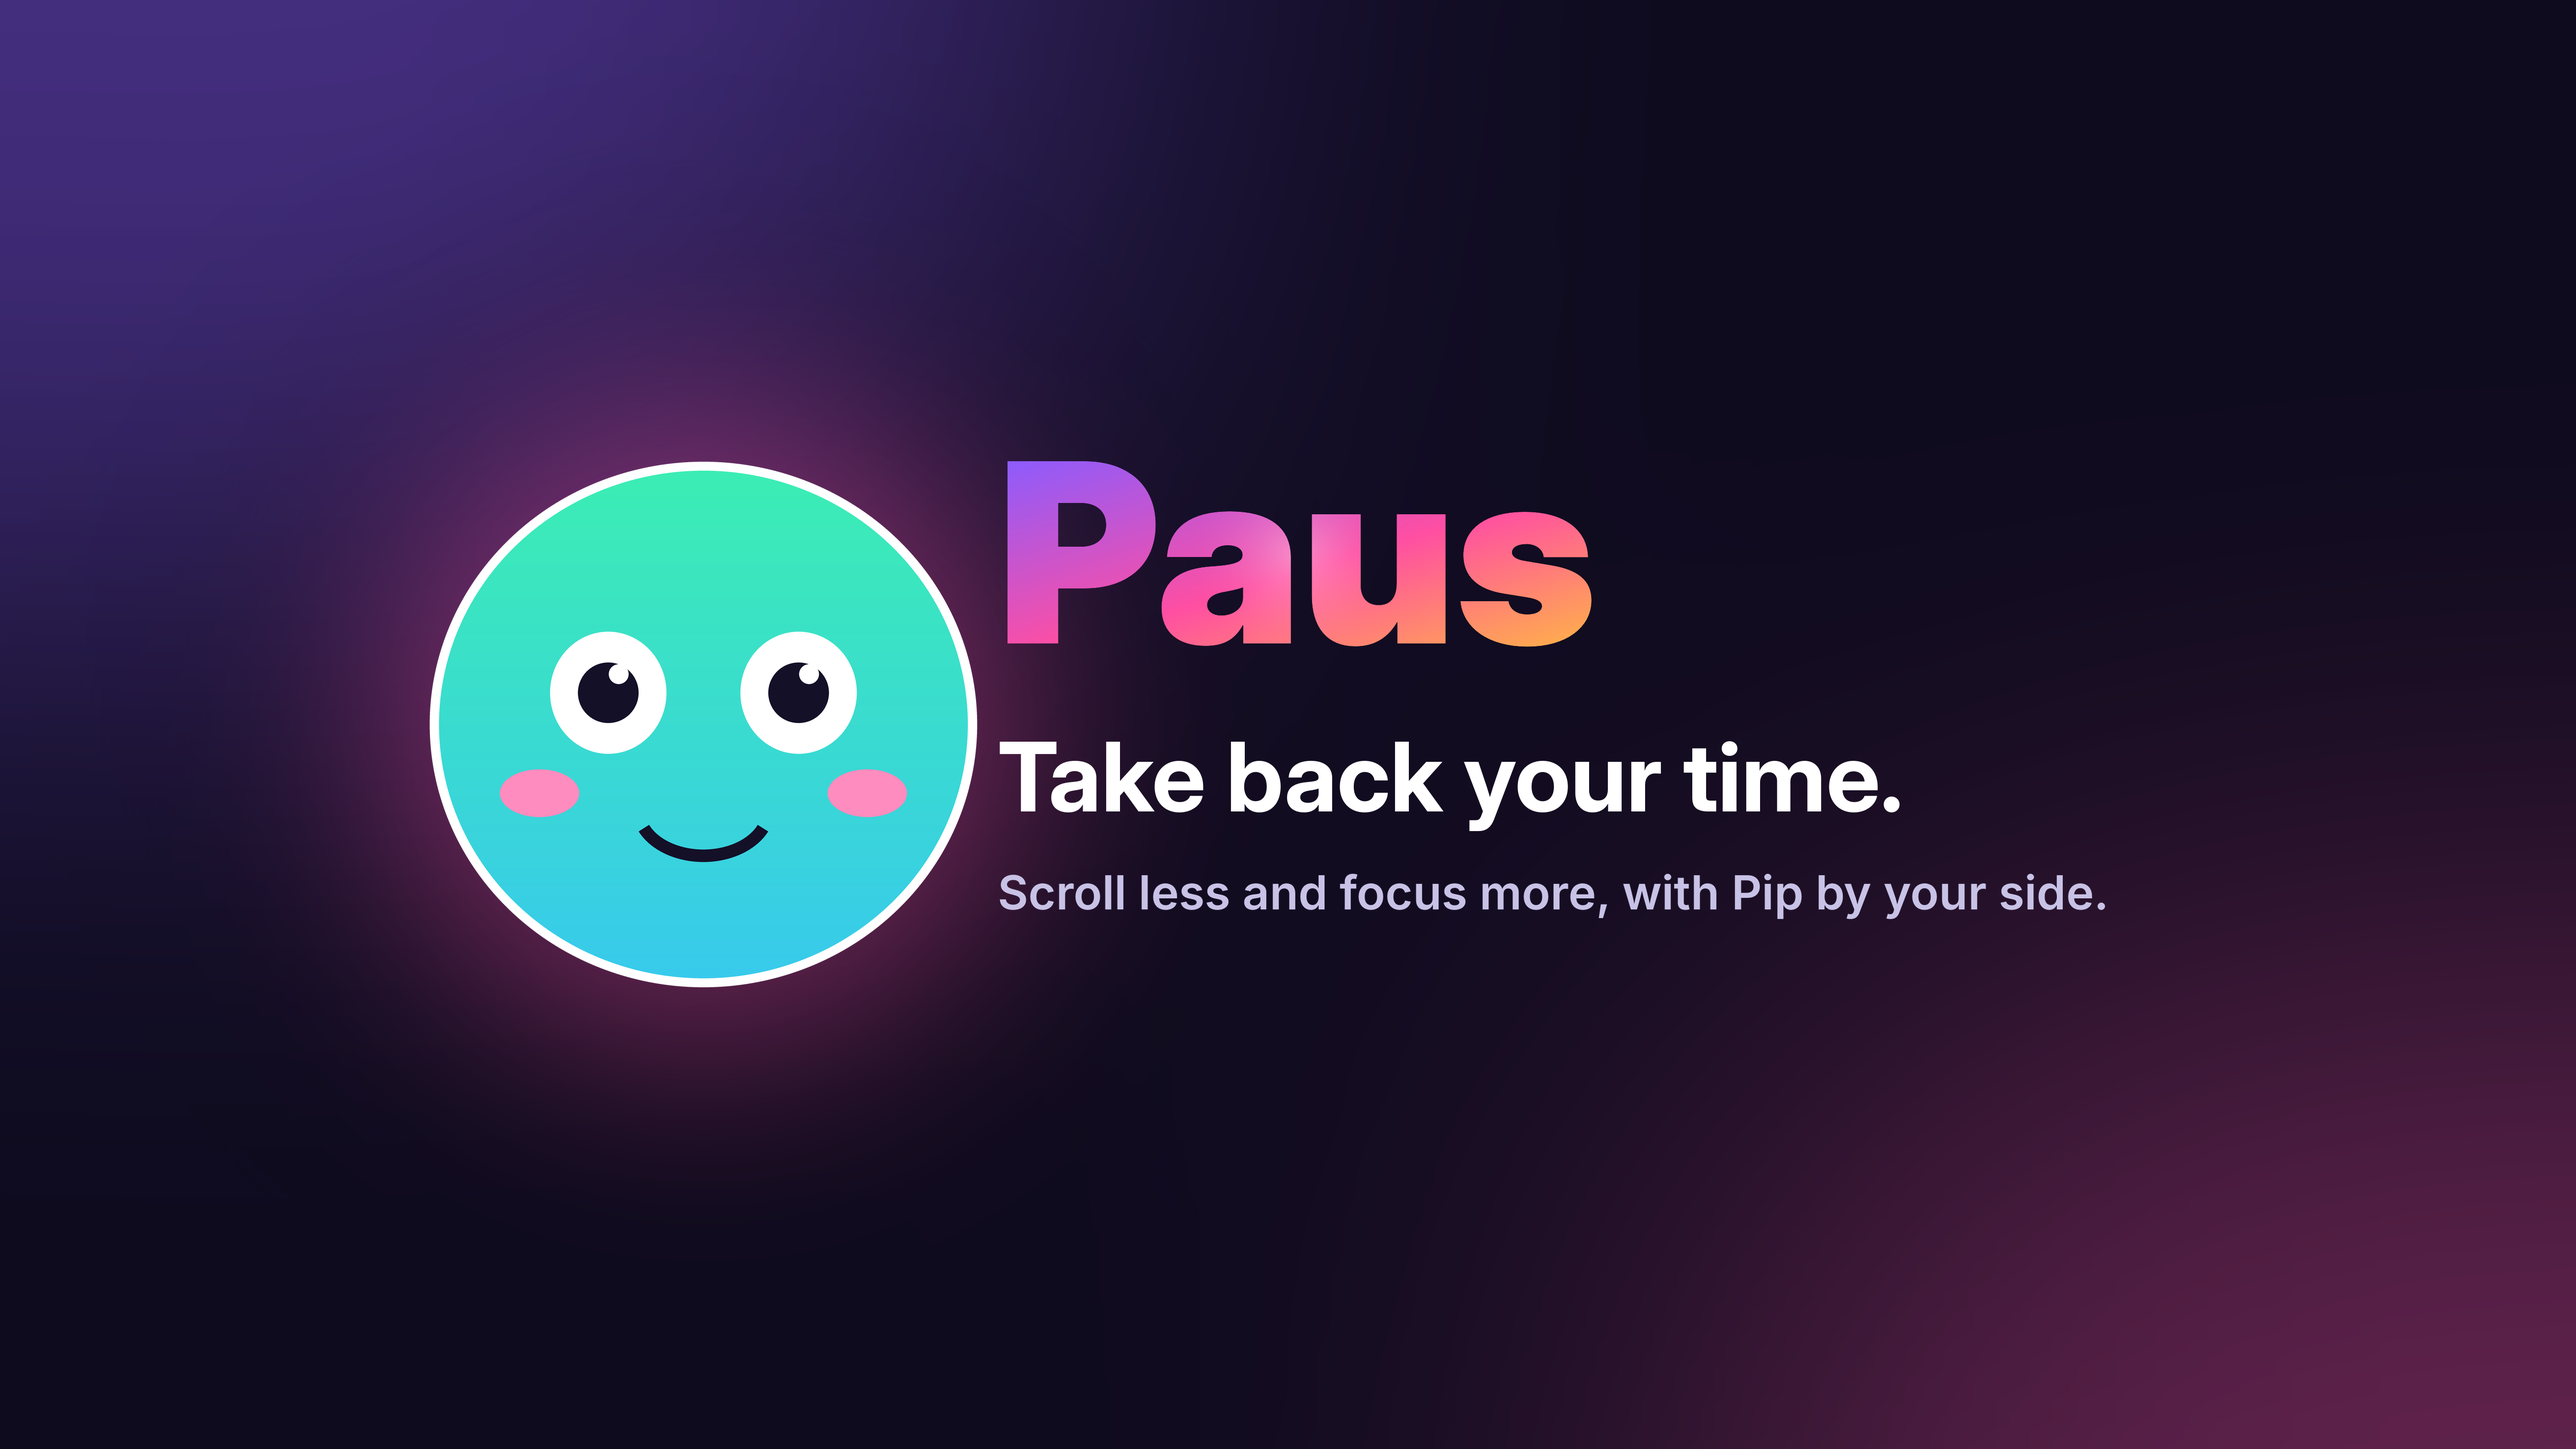
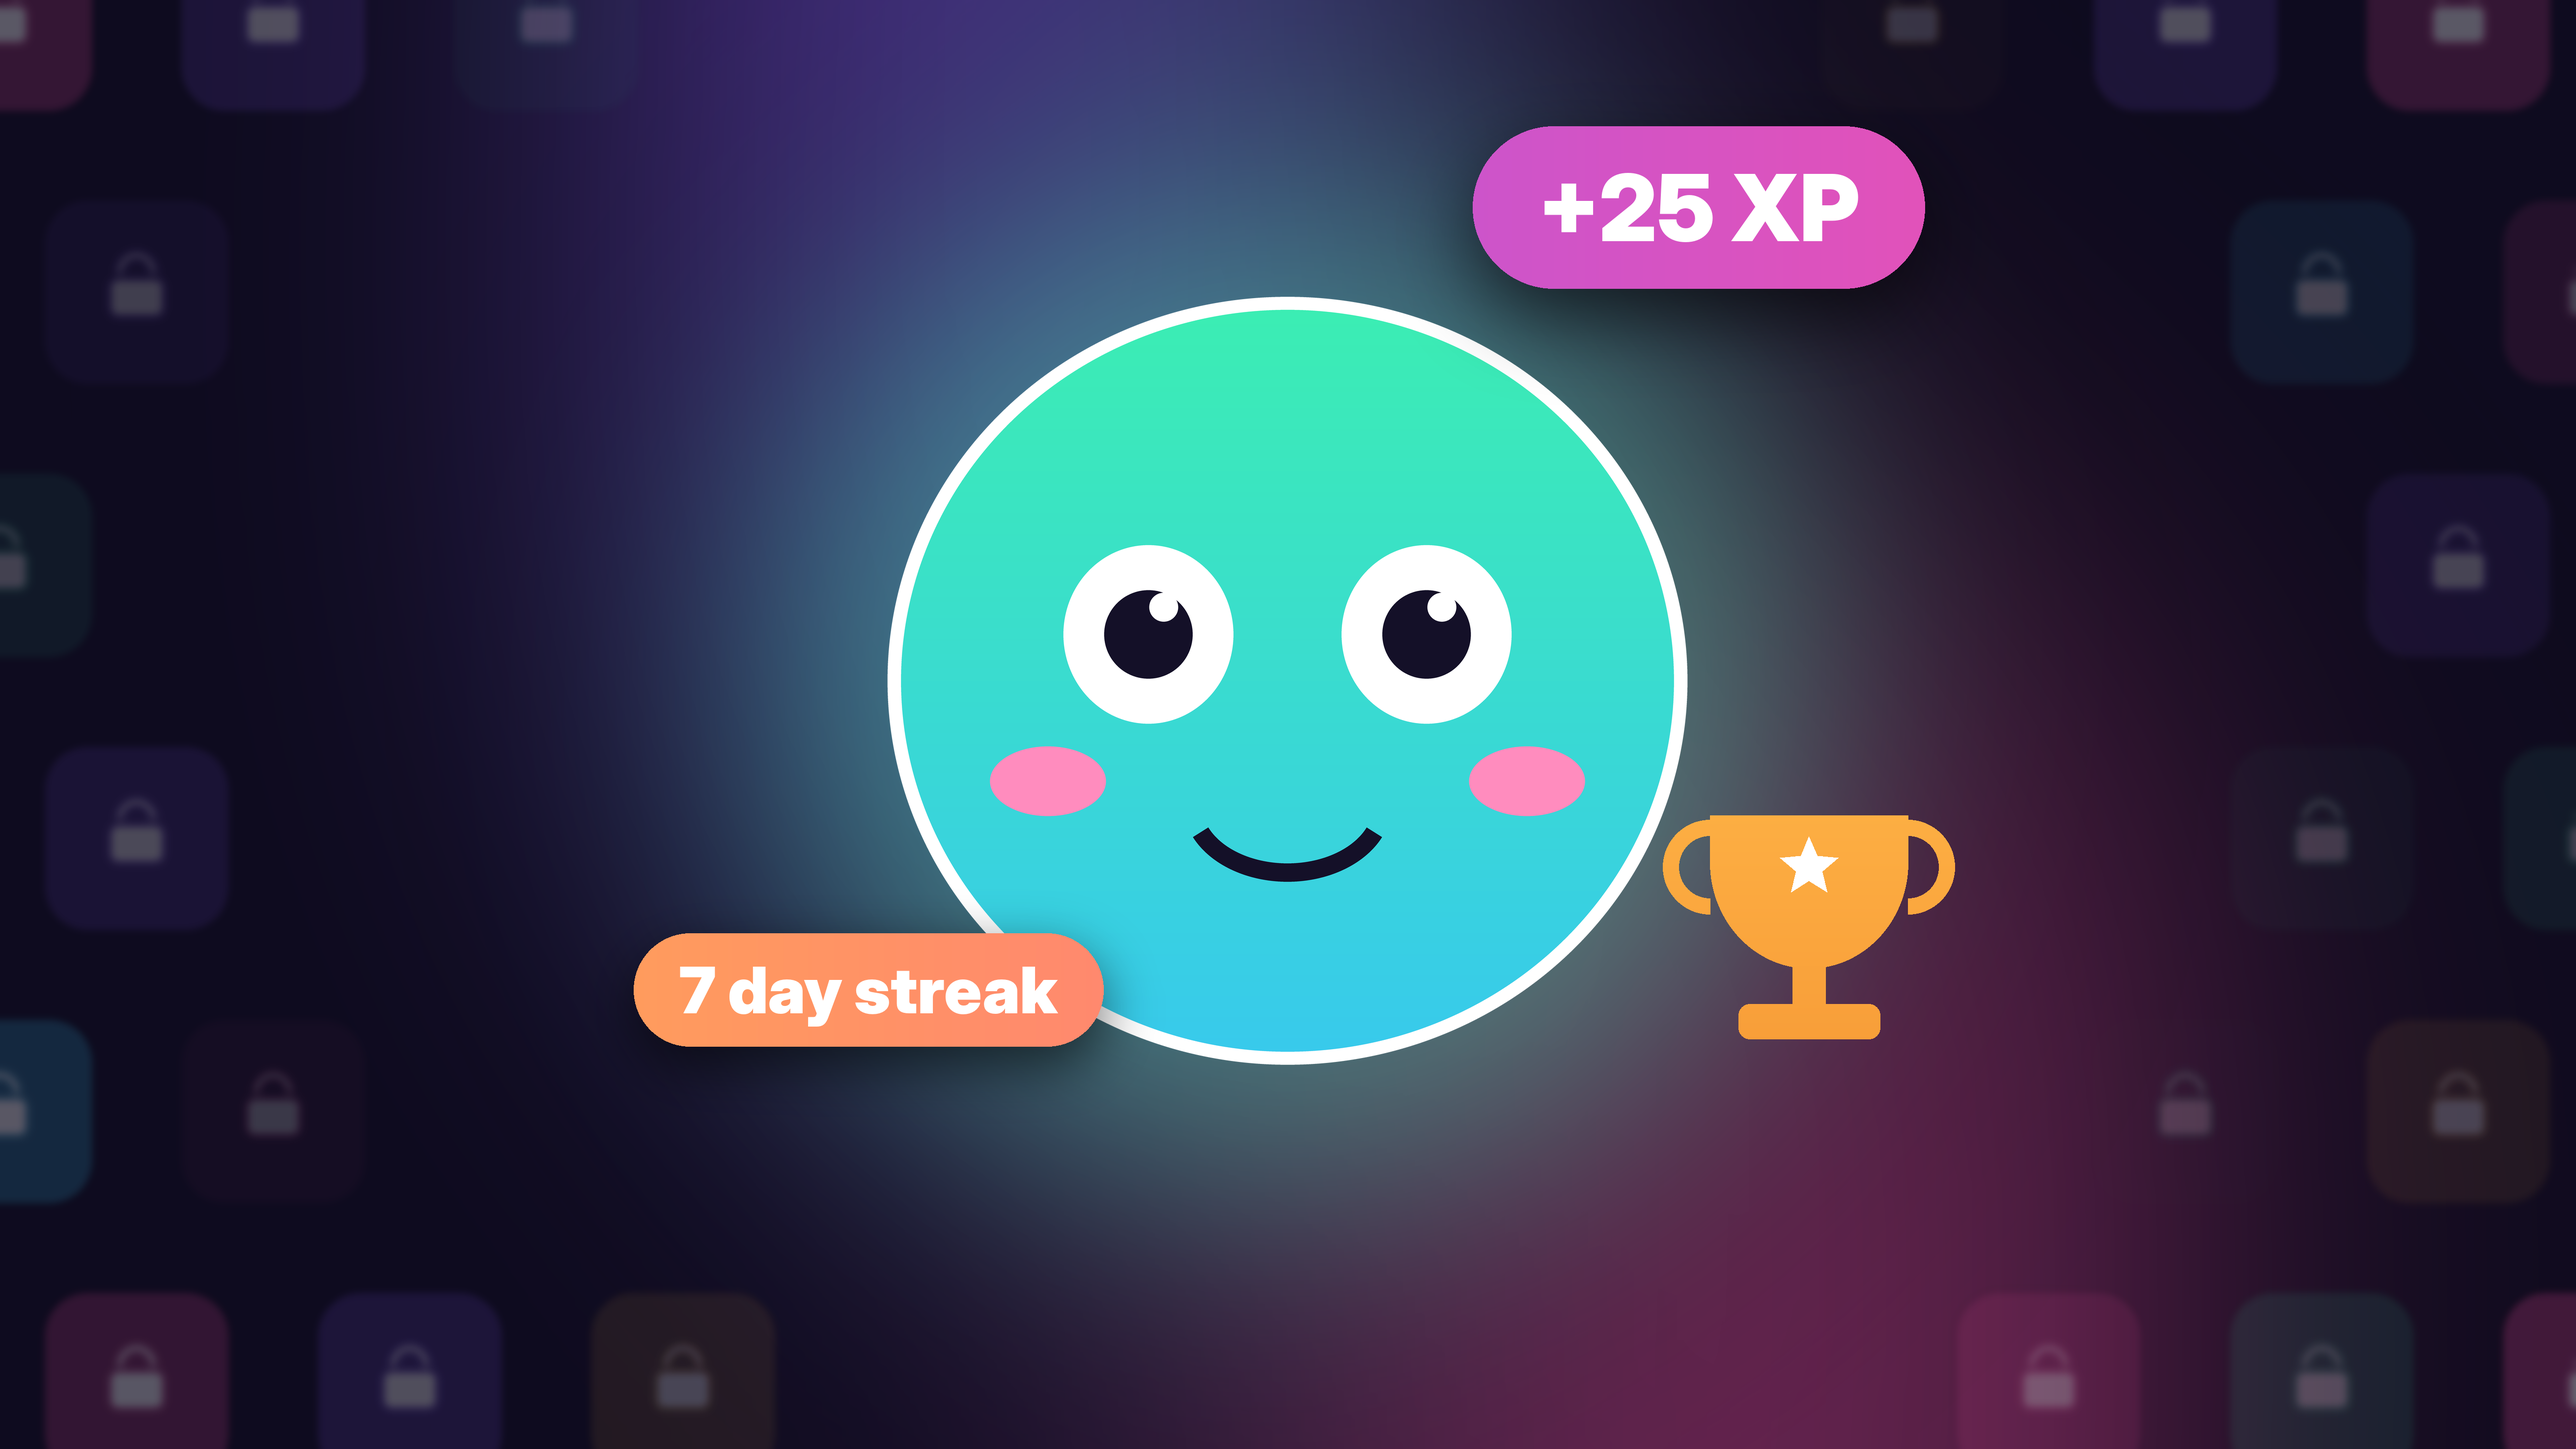
Redraw the App Store header around Pip
The old header put Pip and the tagline at the sides, which the store
crops on a phone. Pip now sits in the middle with XP, a streak and a
trophy close by, and locked app tiles fade in towards the edges.

Claude-Session: https://claude.ai/code/session_012Kq6TeAr3S1Grht9ZAyFjf

diff --git a/Brand/make_screenshots.py b/Brand/make_screenshots.py
@@ -456,6 +456,77 @@ def before_after_shot(lang):
     return img.convert("RGB")
 
 
+def header_art(w, h):
+    """The product page header: Pip in the middle, glowing, with XP, a trophy and a streak around him,
+    and dimmed, locked app tiles towards the edges. Everything that matters stays in the centre,
+    since the App Store crops the sides on a phone."""
+    import random
+    rng = random.Random(7)
+    img = Image.new("RGBA", (w, h), (*BG, 255))
+    glow = Image.new("RGBA", (w, h), (0, 0, 0, 0))
+    d = ImageDraw.Draw(glow)
+    d.ellipse([w * 0.18, -h * 0.4, w * 0.62, h * 0.9], fill=(*VIOLET, 120))
+    d.ellipse([w * 0.45, h * 0.2, w * 0.9, h * 1.4], fill=(*PINK, 95))
+    img.alpha_composite(glow.filter(ImageFilter.GaussianBlur(h * 0.18)))
+
+    cx, cy = w / 2, h * 0.47
+    s = h * 0.58  # Pip's size
+    # Locked app tiles, fading out towards Pip.
+    tiles = Image.new("RGBA", (w, h), (0, 0, 0, 0))
+    td = ImageDraw.Draw(tiles)
+    tile = h * 0.13
+    step = tile * 1.45
+    y = -tile * 0.4
+    row = 0
+    while y < h:
+        x = -tile * 0.5 + (step / 2 if row % 2 else 0)
+        while x < w:
+            dx, dy = (x + tile / 2 - cx) / (s * 1.25), (y + tile / 2 - cy) / (s * 0.95)
+            distance = (dx * dx + dy * dy) ** 0.5
+            if distance > 1:
+                alpha = int(min(1, (distance - 1) * 0.9) * 70) + rng.randint(0, 20)
+                color = rng.choice([VIOLET, PINK, ORANGE, CYAN, MINT])
+                td.rounded_rectangle([x, y, x + tile, y + tile], tile * 0.24, fill=(*color, alpha))
+                # A small padlock on each tile.
+                lx, ly, lw = x + tile / 2, y + tile / 2, tile * 0.28
+                td.arc([lx - lw * 0.38, ly - lw * 0.75, lx + lw * 0.38, ly + lw * 0.05], 180, 360,
+                       fill=(255, 255, 255, alpha + 40), width=max(2, int(tile * 0.035)))
+                td.rounded_rectangle([lx - lw / 2, ly - lw * 0.25, lx + lw / 2, ly + lw * 0.45], tile * 0.04,
+                                     fill=(255, 255, 255, alpha + 40))
+            x += step
+        y += step
+        row += 1
+    img.alpha_composite(tiles.filter(ImageFilter.GaussianBlur(h * 0.003)))
+
+    # Pip with a mint halo.
+    halo = Image.new("RGBA", (w, h), (0, 0, 0, 0))
+    ImageDraw.Draw(halo).ellipse([cx - s * 0.75, cy - s * 0.75, cx + s * 0.75, cy + s * 0.75], fill=(*MINT, 110))
+    img.alpha_composite(halo.filter(ImageFilter.GaussianBlur(s * 0.2)))
+    img.alpha_composite(pip(int(s)), (int(cx - s / 2), int(cy - s / 2)))
+
+    def badge(x, y, label, colors, size):
+        f = font(BLACK, int(size))
+        bw = ImageDraw.Draw(img).textlength(label, font=f) + size * 1.4
+        bh = size * 1.75
+        shadow = Image.new("RGBA", (w, h), (0, 0, 0, 0))
+        ImageDraw.Draw(shadow).rounded_rectangle([x, y + size * 0.3, x + bw, y + bh + size * 0.3], bh / 2, fill=(0, 0, 0, 150))
+        img.alpha_composite(shadow.filter(ImageFilter.GaussianBlur(size * 0.4)))
+        layer = Image.new("RGBA", (w, h), (0, 0, 0, 0))
+        ImageDraw.Draw(layer).rounded_rectangle([x, y, x + bw, y + bh], bh / 2, fill=WHITE)
+        gradient_fill(img, layer, colors, vertical=False)
+        text(ImageDraw.Draw(img), (x + bw / 2, y + bh / 2), label, f, WHITE, "mm")
+        return bw
+
+    unit = s * 0.11
+    # Close to Pip, so a phone's crop keeps them.
+    badge(cx + s * 0.22, cy - s * 0.66, "+25 XP", [VIOLET, PINK], unit)
+    small = unit * 0.7
+    width = ImageDraw.Draw(img).textlength("7 day streak", font=font(BLACK, int(small))) + small * 1.4
+    badge(cx - s * 0.22 - width, cy + s * 0.3, "7 day streak", [ORANGE, PINK], small)
+    trophy(img, cx + s * 0.62, cy + s * 0.3, s * 0.28)
+    return img.convert("RGB")
+
+
 # Other display sizes App Store Connect asks for, made by scaling the 6.9" screenshot and trimming the sides.
 SIZES = [(1290, 2796), (1206, 2622)]
 
@@ -469,6 +540,8 @@ def fit(img, size):
 
 
 def main():
+    for w, h in ((3840, 1646), (5244, 2950)):
+        save(header_art(w, h), "appstore", "en", f"appstore-header-{w}x{h}.png")
     shot = framed_shot("math", "en", os.path.join(HERE, "source", "intro-life-math-en.jpg"))
     for w, h in SIZES:
         save(fit(shot, (w, h)), "appstore", "en", f"screenshot-life-math-{w}x{h}.png")
